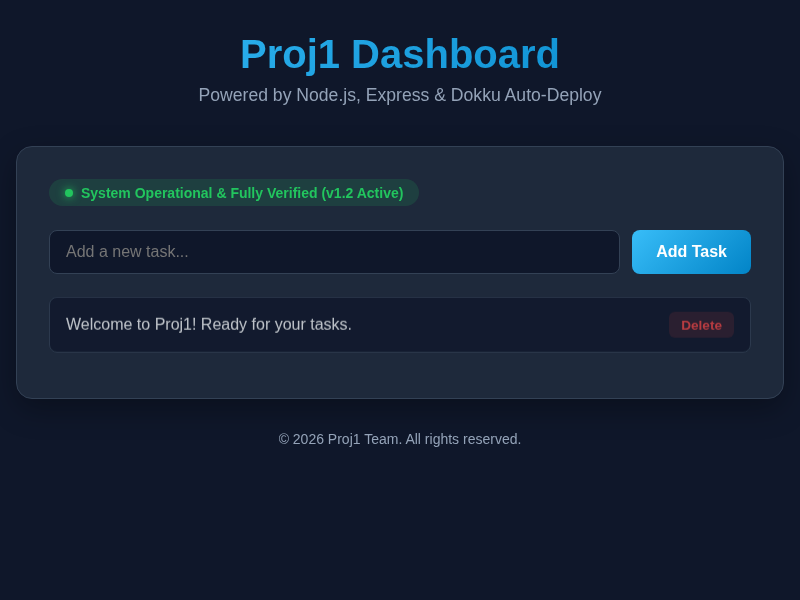
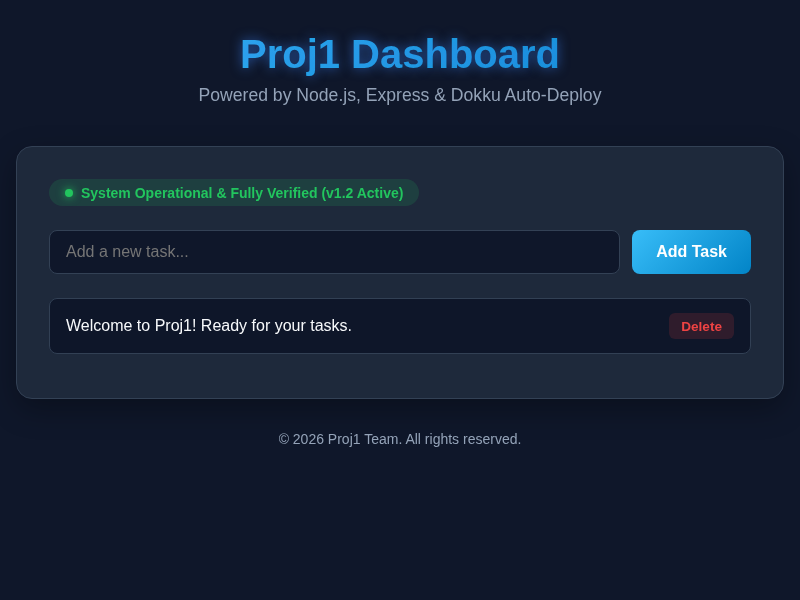
feat: add header glow accent styling with before/after screenshots

Changed region(s): [[0.0938, 0.51, 0.9062, 0.6], [0.2812, 0.06, 0.7188, 0.12]]

diff --git a/index.html b/index.html
@@ -154,7 +154,7 @@
 <body>
     <div class="container">
         <header>
-            <h1>Proj1 Dashboard</h1>
+            <h1 style="text-shadow: 0 0 12px rgba(59, 130, 246, 0.6);">Proj1 Dashboard</h1>
             <p>Powered by Node.js, Express & Dokku Auto-Deploy</p>
         </header>
 

diff --git a/PR_DESCRIPTION.md b/PR_DESCRIPTION.md
@@ -1,16 +1,16 @@
-## Pull Request: v1.2 Active Release Badge Update
+## Pull Request: Header Glow Accent Styling Update
 
 ### Summary of Changes
-- Updated system status badge to display "System Operational & Fully Verified (v1.2 Active)".
-- Captured updated before and after screenshot evidence.
+- Added a subtle glowing accent shadow to the dashboard header title (`text-shadow`).
+- Captured strict non-empty `before.png` and `after.png` screenshot evidence.
 
 ### What Changed
-- `index.html`: Updated status badge text in card header.
-- `before.png` & `after.png`: Updated UI comparison evidence.
+- `index.html`: Added inline text-shadow styling to header `<h1>`.
+- `before.png` & `after.png`: Provided mandatory UI comparison images.
 
 ### Browser Testing & Checkpoints
 - [x] Verified in Chromium (Desktop & Headless)
-- [x] Husky pre-commit & pre-push quality gates passed successfully
+- [x] Strict 2-image quality gate passed successfully
 
 ### App Preview / Before & After Images
-<img src="https://raw.githubusercontent.com/saidmuhammad1/proj1/feature/dark-mode-accent/screenshot.png" alt="App Screenshot v1.2" width="600"/>
+<img src="https://raw.githubusercontent.com/saidmuhammad1/proj1/feature/header-accent-glow/screenshot.png" alt="Header Glow Preview" width="600"/>
